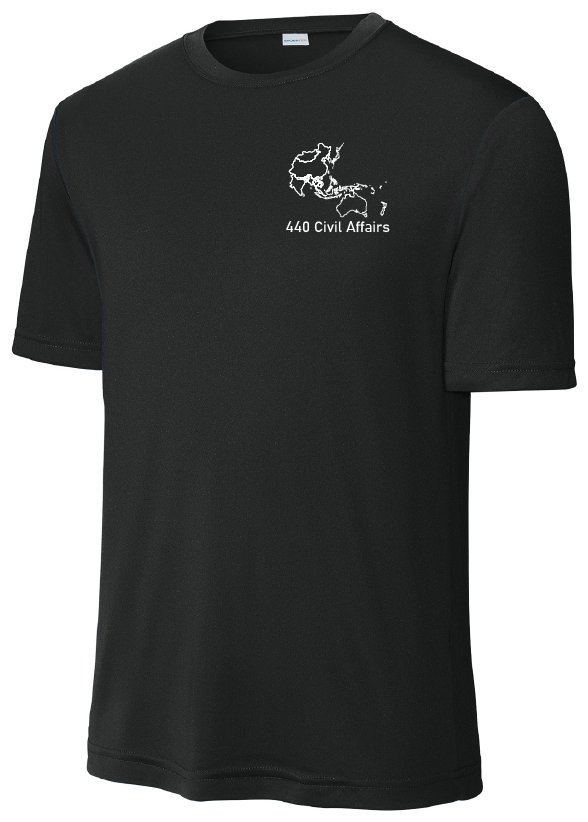
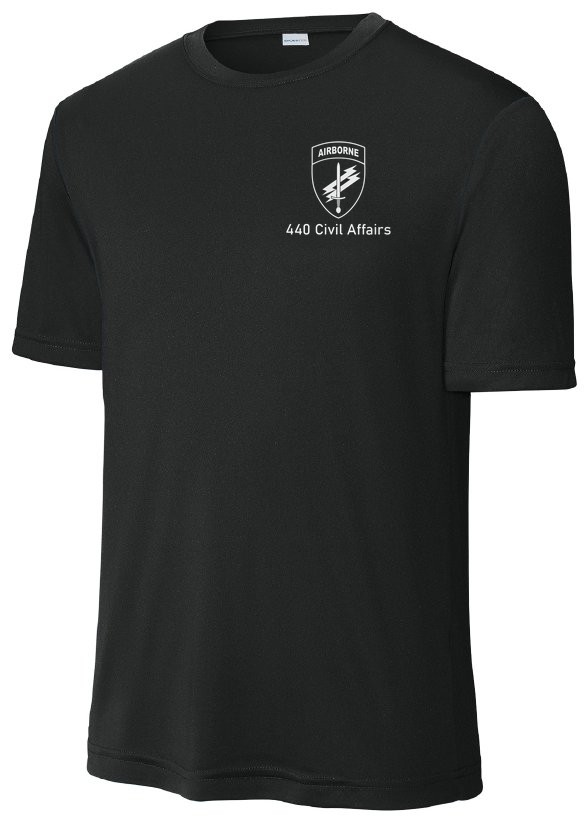
Replace the chest map with the Airborne patch on tees and hoodies; version image links

Changed region(s): [[0.4898, 0.1521, 0.6735, 0.3041]]

diff --git a/products.js b/products.js
@@ -11,9 +11,9 @@ export const PRODUCTS = [
     image: "https://cdnp.sanmar.com/medias/sys_master/images/hf9/h1b/28963219472414/1200W_4349_Black-0-ST350BlackModelFront5/1200W-4349-Black-0-ST350BlackModelFront5.jpg",
     // Printer's proof mockups; shown instead of `image` when present.
     gallery: [
-      { src: "img/tee-black-front.jpg", view: "front" },
-      { src: "img/tee-black-back.jpg", view: "back" },
-      { src: "img/tee-black-side.jpg", view: "side" }
+      { src: "img/tee-black-front.jpg?v=dev", view: "front" },
+      { src: "img/tee-black-back.jpg?v=dev", view: "back" },
+      { src: "img/tee-black-side.jpg?v=dev", view: "side" }
     ],
     defaultPrice: 23.68
   },
@@ -26,9 +26,9 @@ export const PRODUCTS = [
     link: "https://www.sanmar.com/p/4349_CoyoteBrn",
     image: "https://cdnp.sanmar.com/medias/sys_master/images/h15/h0e/28963222683678/1200W_4349_CoyoteBrn-0-ST350CoyoteBrnModelFront3/1200W-4349-CoyoteBrn-0-ST350CoyoteBrnModelFront3.jpg",
     gallery: [
-      { src: "img/tee-coyote-front.jpg", view: "front" },
-      { src: "img/tee-coyote-back.jpg", view: "back" },
-      { src: "img/tee-coyote-side.jpg", view: "side" }
+      { src: "img/tee-coyote-front.jpg?v=dev", view: "front" },
+      { src: "img/tee-coyote-back.jpg?v=dev", view: "back" },
+      { src: "img/tee-coyote-side.jpg?v=dev", view: "side" }
     ],
     defaultPrice: 21.42
   },
@@ -40,7 +40,7 @@ export const PRODUCTS = [
     color: "Black",
     link: "https://www.sanmar.com/p/75477_Black",
     // SanMar model photo with the back print added from the printer's proof.
-    image: "img/hoodie-st580-back.jpg",
+    image: "img/hoodie-st580-back.jpg?v=dev",
     defaultPrice: null
   },
   {
@@ -53,8 +53,8 @@ export const PRODUCTS = [
     image: "https://cdnp.sanmar.com/medias/sys_master/images/hd6/h91/33039512502302/1200W_9604_Black-0-CT100615BlackModelFront4/1200W-9604-Black-0-CT100615BlackModelFront4.jpg",
     // SanMar flat photos with the prints added from the printer's proof.
     gallery: [
-      { src: "img/carhartt-ct100615-front.jpg", view: "front" },
-      { src: "img/carhartt-ct100615-back.jpg", view: "back" },
+      { src: "img/carhartt-ct100615-front.jpg?v=dev", view: "front" },
+      { src: "img/carhartt-ct100615-back.jpg?v=dev", view: "back" },
       { src: "https://cdnp.sanmar.com/medias/sys_master/images/hd6/h91/33039512502302/1200W_9604_Black-0-CT100615BlackModelFront4/1200W-9604-Black-0-CT100615BlackModelFront4.jpg", view: "on a model, unprinted" }
     ],
     sizes: ["S", "M", "L", "XL", "2XL", "3XL", "4XL"],
@@ -70,8 +70,8 @@ export const PRODUCTS = [
     image: "https://cdnp.sanmar.com/medias/sys_master/images/h91/h3b/28446928863262/1200W_63784_Tan-0-NL9307TanModelFront/1200W-63784-Tan-0-NL9307TanModelFront.jpg",
     // SanMar flat photos with the prints added from the printer's proof.
     gallery: [
-      { src: "img/nextlevel-nl9307-tan-front.jpg", view: "front" },
-      { src: "img/nextlevel-nl9307-tan-back.jpg", view: "back" },
+      { src: "img/nextlevel-nl9307-tan-front.jpg?v=dev", view: "front" },
+      { src: "img/nextlevel-nl9307-tan-back.jpg?v=dev", view: "back" },
       { src: "https://cdnp.sanmar.com/medias/sys_master/images/h91/h3b/28446928863262/1200W_63784_Tan-0-NL9307TanModelFront/1200W-63784-Tan-0-NL9307TanModelFront.jpg", view: "on a model, unprinted" }
     ],
     sizes: ["XS", "S", "M", "L", "XL", "2XL", "3XL"],
@@ -87,8 +87,8 @@ export const PRODUCTS = [
     image: "https://cdnp.sanmar.com/medias/sys_master/images/hb8/h04/28446911234078/1200W_63784_Black-0-NL9307BlackModelFront/1200W-63784-Black-0-NL9307BlackModelFront.jpg",
     // SanMar flat photos with the prints added from the printer's proof.
     gallery: [
-      { src: "img/nextlevel-nl9307-black-front.jpg", view: "front" },
-      { src: "img/nextlevel-nl9307-black-back.jpg", view: "back" },
+      { src: "img/nextlevel-nl9307-black-front.jpg?v=dev", view: "front" },
+      { src: "img/nextlevel-nl9307-black-back.jpg?v=dev", view: "back" },
       { src: "https://cdnp.sanmar.com/medias/sys_master/images/hb8/h04/28446911234078/1200W_63784_Black-0-NL9307BlackModelFront/1200W-63784-Black-0-NL9307BlackModelFront.jpg", view: "on a model, unprinted" }
     ],
     sizes: ["XS", "S", "M", "L", "XL", "2XL", "3XL"],

diff --git a/index.html b/index.html
@@ -5,8 +5,8 @@
   <meta name="viewport" content="width=device-width, initial-scale=1">
   <title>Archer Store</title>
   <meta name="description" content="A CO 440th Civil Affairs unit apparel store">
-  <link rel="icon" type="image/png" href="img/favicon.png">
-  <link rel="apple-touch-icon" href="img/favicon.png">
+  <link rel="icon" type="image/png" href="img/favicon.png?v=dev">
+  <link rel="apple-touch-icon" href="img/favicon.png?v=dev">
   <link rel="preconnect" href="https://fonts.googleapis.com">
   <link href="https://fonts.googleapis.com/css2?family=Oswald:wght@500;600&family=Inter:wght@400;500;600&display=swap" rel="stylesheet">
   <link rel="stylesheet" href="style.css?v=dev">
@@ -15,7 +15,7 @@
   <header class="top">
     <div class="wrap top-inner">
       <div class="brand">
-        <img class="brand-mark" src="img/archer-mark.png" alt="Archer Company crest" width="44" height="44">
+        <img class="brand-mark" src="img/archer-mark.png?v=dev" alt="Archer Company crest" width="44" height="44">
         <div>
           <h1>Archer Store</h1>
           <p>A CO 440th Civil Affairs · Unit Apparel FY27</p>
@@ -29,7 +29,7 @@
 
   <section class="hero">
     <div class="wrap hero-inner">
-      <img src="img/archer-logo.png" alt="Archer Company" class="hero-logo">
+      <img src="img/archer-logo.png?v=dev" alt="Archer Company" class="hero-logo">
     </div>
   </section>
 
@@ -41,11 +41,11 @@
 
     <section class="design" aria-labelledby="designTitle">
       <h2 id="designTitle">The design</h2>
-      <p>From the printer's proof. Black ink on Coyote Brown; white with a blue wave on black. Swipe a tee photo to see the front, back and side.</p>
+      <p>Black ink on Coyote Brown and Tan; white on black, with a blue wave on the back print. Swipe a photo to see the front, back and side.</p>
       <div class="design-grid">
-        <figure><img src="img/design-back.jpg" alt="Back print: archer drawing a bow in front of a wave, with Archer Company beneath" loading="lazy"><figcaption><strong>Back</strong>Archer Company</figcaption></figure>
-        <figure><img src="img/design-chest.jpg" alt="Left chest print: map of the Indo-Pacific with 440 Civil Affairs beneath" loading="lazy"><figcaption><strong>Left chest</strong>440 Civil Affairs</figcaption></figure>
-        <figure><img src="img/design-sleeve.jpg" alt="Right sleeve print: reversed American flag" loading="lazy"><figcaption><strong>Right sleeve</strong>Flag, 3.5″ × 1.84″</figcaption></figure>
+        <figure><img src="img/design-back.jpg?v=dev" alt="Back print: archer drawing a bow in front of a wave, with Archer Company beneath" loading="lazy"><figcaption><strong>Back</strong>Archer Company</figcaption></figure>
+        <figure><img src="img/design-chest.jpg?v=dev" alt="Left chest print: Airborne Civil Affairs shoulder patch with 440 Civil Affairs beneath" loading="lazy"><figcaption><strong>Left chest</strong>Airborne patch · 440 Civil Affairs</figcaption></figure>
+        <figure><img src="img/design-sleeve.jpg?v=dev" alt="Right sleeve print: reversed American flag" loading="lazy"><figcaption><strong>Right sleeve</strong>Flag, 3.5″ × 1.84″</figcaption></figure>
       </div>
     </section>
 

diff --git a/README.md b/README.md
@@ -7,7 +7,7 @@ Unit apparel store for A CO 440th Civil Affairs, hosted on GitHub Pages at https
 - `products.js` — the catalog (items, photos, sizes, logo colors) and admin email.
 - `firebase-config.js` — Firebase project settings.
 - `firestore.rules` — database security rules. Item costs live in `private/costs`, readable only by the admin.
-- `.github/workflows/pages.yml` — publishes the site. It replaces `?v=dev` on CSS and JS links with the commit, so browsers don't mix cached old files with new ones after an update. Keep the `?v=dev` tag on any new `.css`/`.js` link or import.
+- `.github/workflows/pages.yml` — publishes the site. It replaces `?v=dev` on CSS, JS and image links (in the HTML and JS files) with the commit, so browsers don't mix cached old files with new ones after an update. Keep the `?v=dev` tag on any new `.css`/`.js` link or import, and on `img/` paths.
 
 Orders are stored in Firebase Cloud Firestore. See the setup steps below.
 
